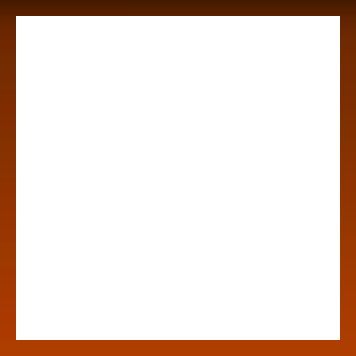
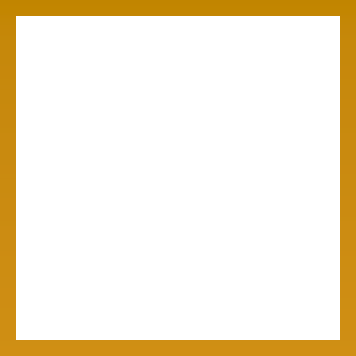
updates

Changed region(s): [[0.0, 0.0, 1.0, 1.0]]

diff --git a/css/main.css b/css/main.css
@@ -151,7 +151,7 @@ input{
 	transform: scaleX(-1) rotate(-25deg);
 }
 #main-nav{
-    background: linear-gradient(180deg, #672500 0%, #9C3600 59.56%, #FF4C00 184.44%);
+    background: linear-gradient(180deg, #f6ae2d 0%, goldenrod 59.56%, gold 184.44%);
     box-shadow: 0em 1em 2em #0000007a;
     border-bottom: 0.2em solid goldenrod;
 }
@@ -165,7 +165,7 @@ input{
 }
 #main-nav ul li a,
 #nested-nav{
-	color: wheat;
+	color: #073b4c;
 	display: inline-block;
 	vertical-align: middle;
 	position: relative;
@@ -195,7 +195,7 @@ input{
   font-size: 2em;
   line-height: 1em;
 	font-family: "cinzel";
-	color: white !important;
+	color: #073b4c !important;
   width: 100%;
   padding: 0em 0em 0em 0em;
 }
@@ -212,10 +212,10 @@ input{
   display: block;
   line-height: 1.5em;
 	font-family: "cinzel" !important;
-	color: white;
+	color: #;
 }
 #logo hr {
-  background: white;
+  background: #073b4c;
   border: 0;
   height: 2px;
   max-width: 8em;
@@ -436,7 +436,7 @@ input{
 /*======================================================*/
 footer {
   padding: 2em;
-  background: #20304d;
+  background: #187790;
 }
 #footer-logo-img {
     /**/
@@ -1580,7 +1580,7 @@ margin-bottom: 1.5em;
     height: 100%;
   }
 .booking-img-container {
-  background: #4c536d;
+  background: #13657b;
   border: 0.25em solid white;
   height: 6em;
   width: 6em;

diff --git a/index.html b/index.html
@@ -48,7 +48,7 @@
             </li>
             <li class="nav-desktop">
                 <a href="/FAQ.htm">faq</a>
-		<a href="/blog.htm">blog</a>
+		        <a href="/blog.htm">blog</a>
                 <a href="/contact.htm">contact</a>
                 <a href="/Cart/Edit#viewitems">cart</a>
             </li>
@@ -195,11 +195,12 @@
   </ul>
 </div>
 <!-- ======================= -->
+
     <footer>
         <ul id="first-footer-row">
-            <li><a href="/"><img src="images/rolaylahainaluaulogo.png" id="footer-logo-img"></a></li>
-            <li></li>
-            <li></li>
+            <li id="logo">
+                <a href="/">Royal Kona<hr><span>lu'au</span></a>
+            </li>
         </ul>
         <ul id="second-footer-row">
             <li>
@@ -239,8 +240,6 @@
             </li>
         </ul>
     </footer>
-
-
 
     </main>
     <!-- ================================================= -->

diff --git a/css/home.css b/css/home.css
@@ -295,7 +295,7 @@ color: whitesmoke;
 }
 .reading a.reading-img {
 	width: 90%;
-	border: 1em solid #ae3d00;
+	border: 1em solid #c7880c;
 	box-shadow: 0em 0.5em 0.5em -0.25em rgba(0,0,0,0.25);
   display: inline-block;
   position: relative;
